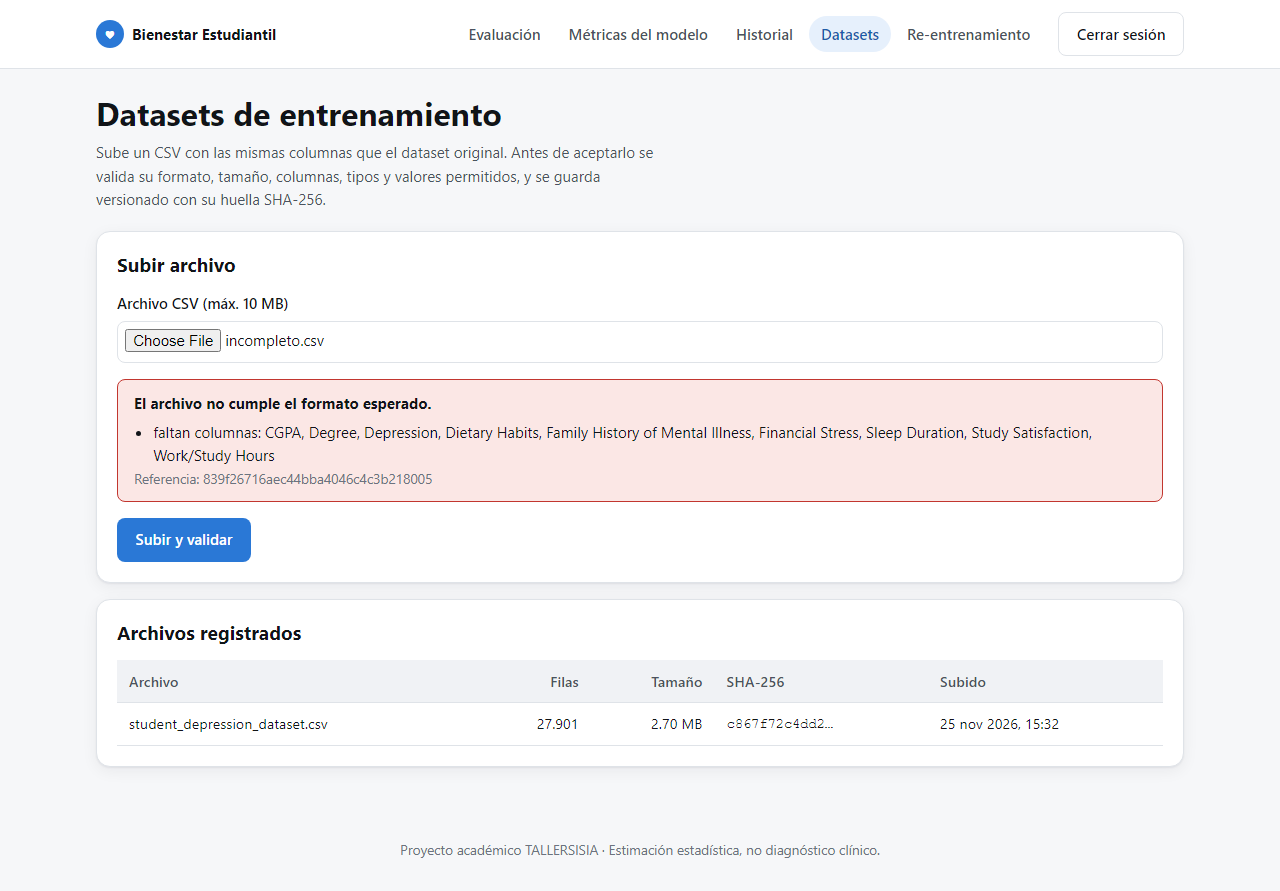
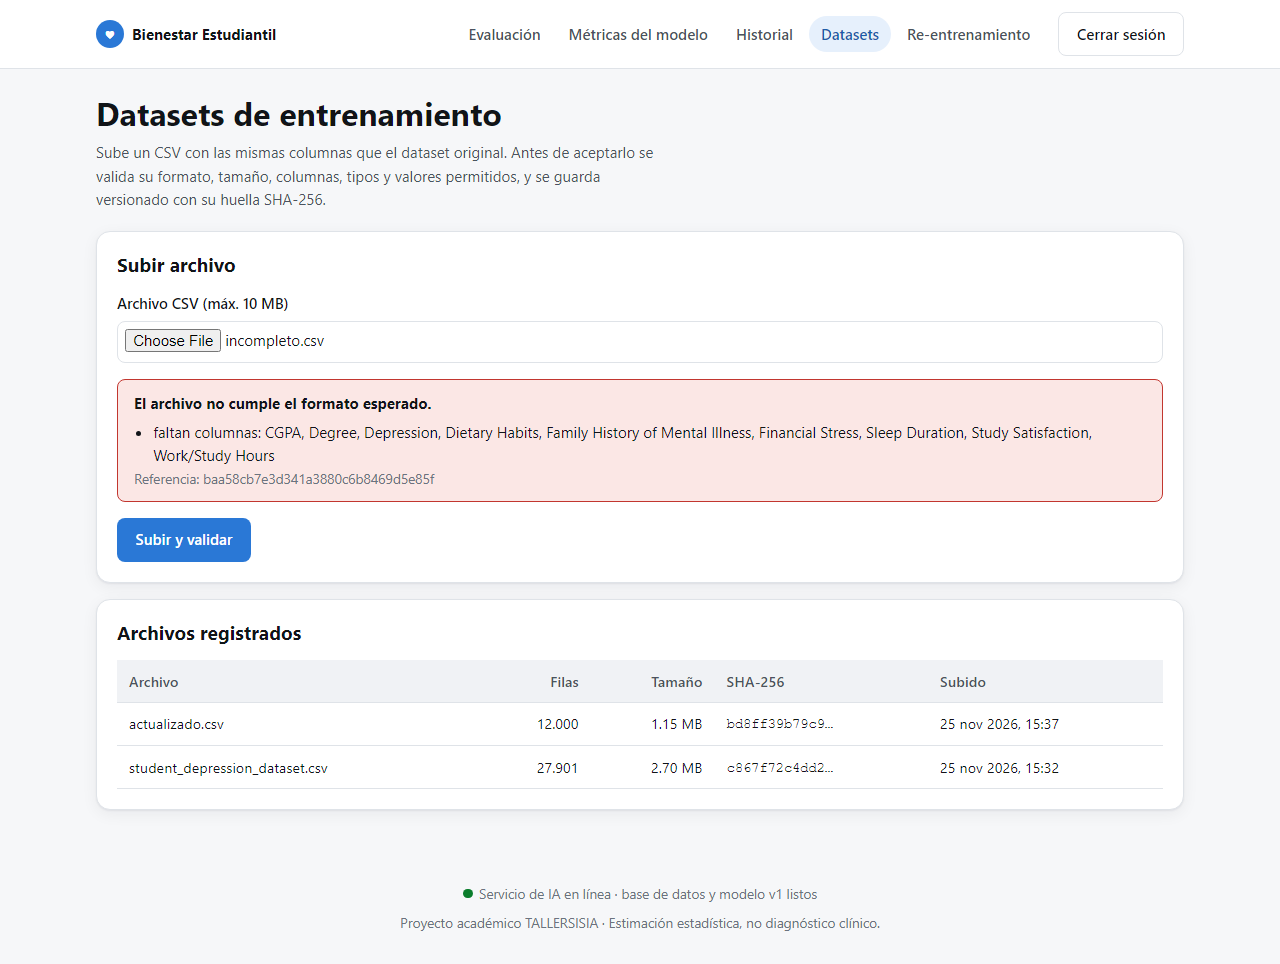
fix(e2e): buscar el aviso de "Archivo aceptado" solo en el contenido principal
El indicador de estado del servicio del pie de página también tiene
role="status", y el localizador encontraba dos elementos (modo estricto de
Playwright).

diff --git a/frontend/e2e/admin.spec.ts b/frontend/e2e/admin.spec.ts
@@ -45,7 +45,7 @@ test.describe.serial("administración", () => {
     const before = await activeVersion(page);
 
     await upload(page, "actualizado.csv", datasetSample(12000));
-    await expect(page.getByRole("status")).toContainText("Archivo aceptado");
+    await expect(page.getByRole("main").getByRole("status")).toContainText("Archivo aceptado");
     await capture(page, "06-dataset-aceptado");
 
     await page.getByRole("link", { name: "Usarlo para re-entrenar →" }).click();
